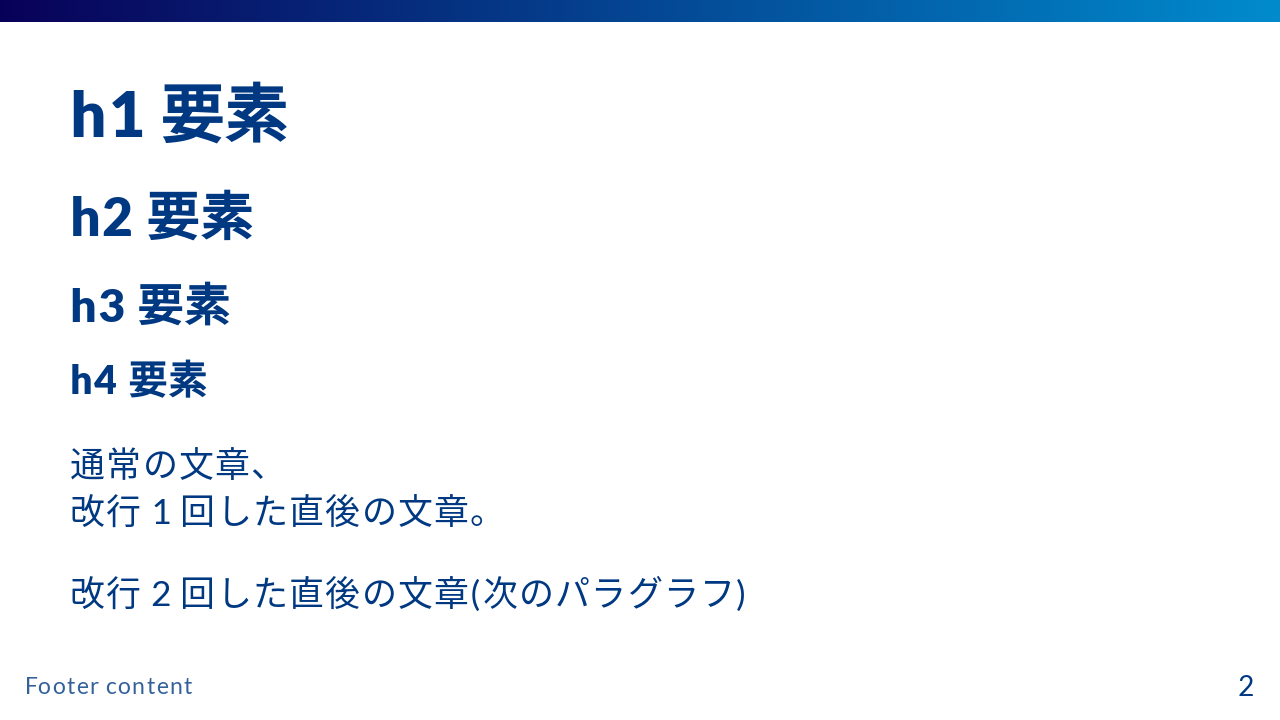
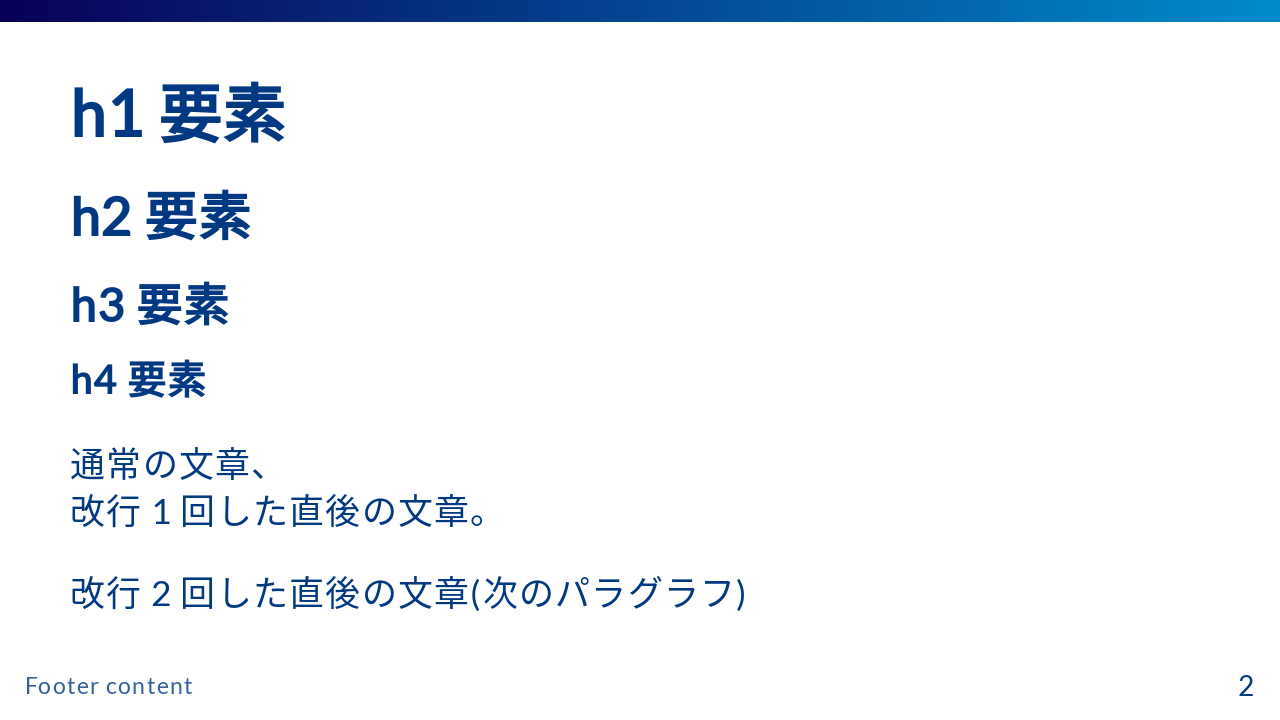
フォントをほぼgoogle fontにした

diff --git a/marp-themes/speee.scss b/marp-themes/speee.scss
@@ -14,7 +14,7 @@ $color-lighter-dark: #005ea5; // 薄い方のコーポレートカラー
 $color-normal-highlight: #0288d1;
 $color-inverted-highlight: #81d4fa;
 
-@import url("https://fonts.googleapis.com/css?family=Lato:400,900|Roboto+Mono:400,700&display=swap");
+@import url("https://fonts.googleapis.com/css2?family=Lato&family=Noto+Sans+JP&family=Roboto+Mono&display=swap");
 @import url("https://cdnjs.cloudflare.com/ajax/libs/highlight.js/11.2.0/styles/tomorrow-night-blue.min.css"); // 強制的に背景が青になるので背景が青のテーマを選択
 
 @mixin color-scheme($bg, $text, $highlight) {
@@ -196,8 +196,7 @@ section {
   background-color: var(--color-background);
   color: var(--color-foreground);
   font-size: 35px;
-  font-family: "Lato", "Avenir Next", "Avenir", "Trebuchet MS", "Segoe UI",
-    sans-serif;
+  font-family: "Lato", "Noto Sans JP", sans-serif;
   height: 720px;
   line-height: 1.35;
   letter-spacing: 1.25px;

diff --git a/marp-themes/speee.css b/marp-themes/speee.css
@@ -8,7 +8,7 @@
  * @size 16:9 1280px 720px
  * @size 4:3 960px 720px
  */
-@import url("https://fonts.googleapis.com/css?family=Lato:400,900|Roboto+Mono:400,700&display=swap");
+@import url("https://fonts.googleapis.com/css2?family=Lato&family=Noto+Sans+JP&family=Roboto+Mono&display=swap");
 @import url("https://cdnjs.cloudflare.com/ajax/libs/highlight.js/11.2.0/styles/tomorrow-night-blue.min.css");
 svg[data-marp-fitting=svg] {
   max-height: 580px;
@@ -175,7 +175,7 @@ section {
   background-color: var(--color-background);
   color: var(--color-foreground);
   font-size: 35px;
-  font-family: "Lato", "Avenir Next", "Avenir", "Trebuchet MS", "Segoe UI", sans-serif;
+  font-family: "Lato", "Noto Sans JP", sans-serif;
   height: 720px;
   line-height: 1.35;
   letter-spacing: 1.25px;
